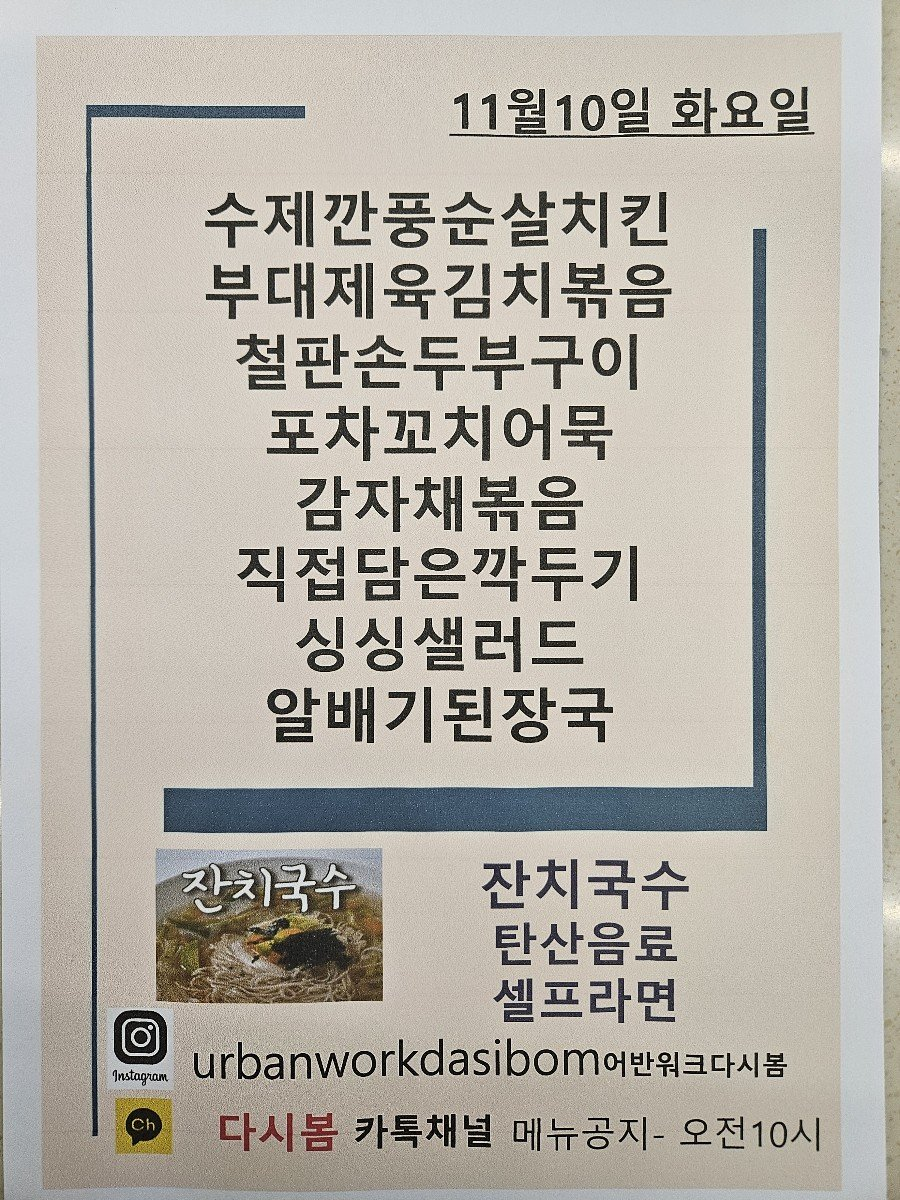
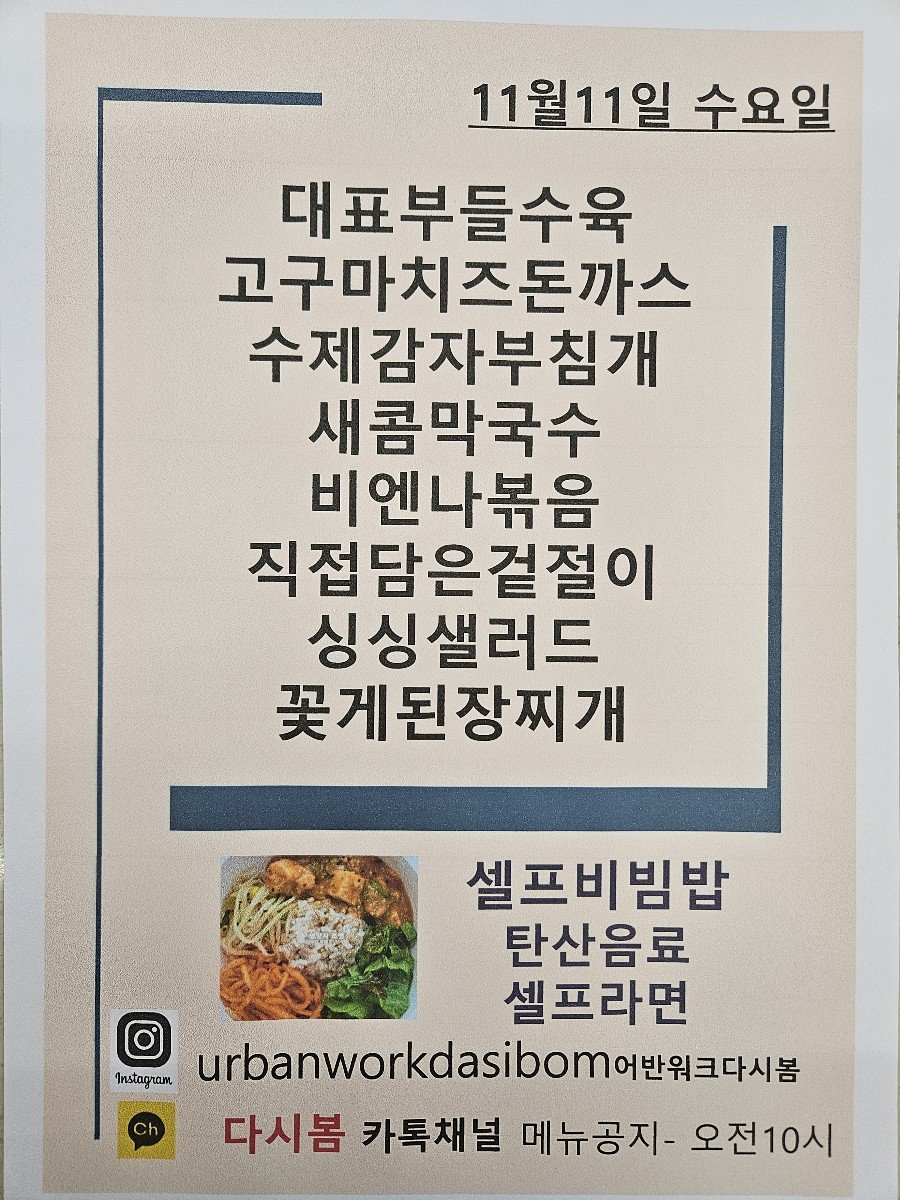
Update menu board assets

diff --git a/menu-today/index.html b/menu-today/index.html
@@ -209,7 +209,7 @@
 
     <section class="meta-bar">
       <div class="meta-card"><div class="meta-label">기준 날짜</div><div class="meta-value">2026년 11월 11일 수요일</div></div>
-      <div class="meta-card"><div class="meta-label">최종 가져온 시간</div><div class="meta-value">2026-11-11 09:33:00</div></div>
+      <div class="meta-card"><div class="meta-label">최종 가져온 시간</div><div class="meta-value">2026-11-11 09:48:26</div></div>
       <div class="meta-card"><div class="meta-label">확인 완료</div><div class="meta-value">9개 식당</div></div>
       <div class="meta-card"><div class="meta-label">준비중</div><div class="meta-value">3개 채널</div></div>
     </section>
@@ -235,7 +235,7 @@
             <div class="sub">가산 어반워크</div>
           </div>
         </div>
-        <div class="menu-inline-image"><img src="./images/dasibom.png" alt="다시 봄 식단 이미지"></div><ul><li>수제깐풍순살치킨</li><li>부대제육김치볶음 [</li><li>포차꼬치어묵</li><li>싱싱샐러드</li><li>알배기된장국</li><li>수제깐</li><li>치킨</li><li>부대제육김</li></ul>
+        <div class="menu-inline-image"><img src="./images/dasibom.png" alt="다시 봄 식단 이미지"></div><ul><li>대표부들수육</li><li>고구마치즈돈까스</li><li>수제감자부침개</li><li>새콤막국수</li><li>직접담은겉절이</li><li>싱싱샐러드</li><li>꽃게된장찌개</li><li>턴 르스 So</li></ul>
       </article>
 
       <article class="restaurant-card">

diff --git a/guro-menu/index.html b/guro-menu/index.html
@@ -32,7 +32,7 @@
   </header>
   <section class="meta">
     <div><small>기준 날짜</small><strong>2026년 11월 11일 수요일</strong></div>
-    <div><small>최종 갱신</small><strong>2026-11-11 09:33:12</strong></div>
+    <div><small>최종 갱신</small><strong>2026-11-11 09:48:40</strong></div>
     <div><small>등록 식당</small><strong>5개</strong></div>
   </section>
   <div class="notice">공개 카카오 채널의 메뉴 이미지를 자동 수집하고 OCR로 정리합니다. 텍스트에 오타가 있을 수 있으니 식단 이미지를 함께 확인해 주세요.</div>
